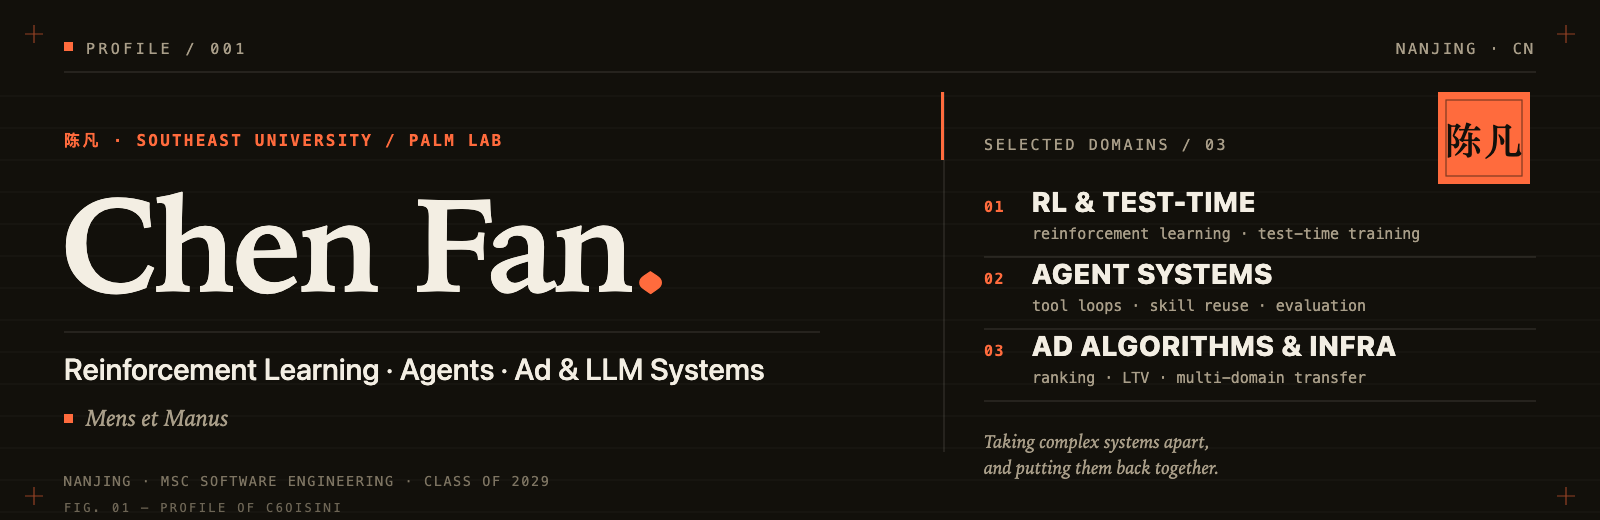
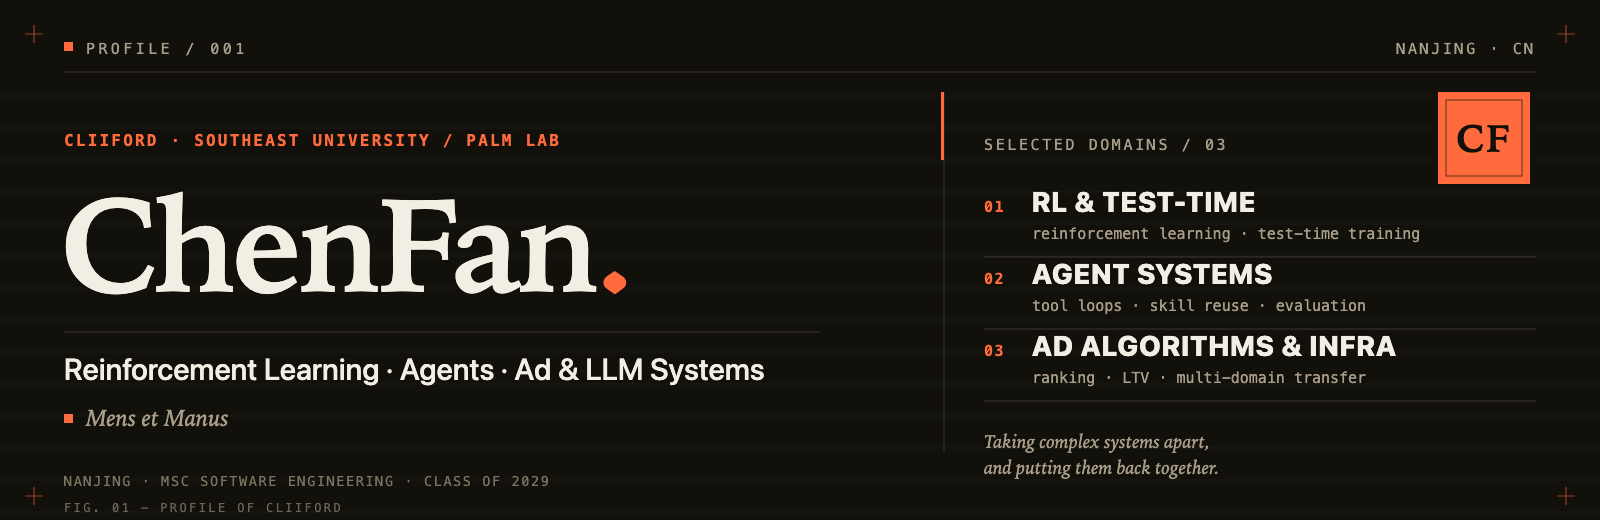
Make the profile English-only and use ChenFan (CliiFord)
Drop the Chinese README section and replace the Chinese name in the hero with ChenFan / CliiFord; regenerate both SVGs and previews.

diff --git a/make_hero.py b/make_hero.py
@@ -1,24 +1,25 @@
 #!/usr/bin/env python3
 """
-生成 README 顶部的 hero 图（亮色 + 暗色各一份）。
+Generate the hero image for the README (light + dark).
 
-风格：编辑排版 / 印刷品 —— 纸面底色、衬线大字、朱红姓名章、细线索引。
-不使用渐变、发光和玻璃卡片，整张图由纯色、细线和小字号等宽字构成。
+Style: editorial print — paper stock, large serif name, vermilion monogram,
+thin index rules. No gradients, glows, or glass cards; flat color, hairlines,
+and small mono type only.
 
-改下面这段变量，然后运行：
+Edit the variables below, then run:
     python3 make_hero.py
 
-输出：
+Outputs:
     assets/hero-light.svg
     assets/hero-dark.svg
 """
 
 from pathlib import Path
 
-# ----------------------------- 只改这里 ---------------------------------
-NAME = "Chen Fan"
-NAME_CN = "陈凡"
-HANDLE = "C6oisini"
+# ----------------------------- edit here ---------------------------------
+NAME = "ChenFan"
+ALIAS = "CliiFord"
+MONOGRAM = "CF"
 LABEL = "PALM LAB"
 SCHOOL = "SOUTHEAST UNIVERSITY"
 TAGLINE = "Reinforcement Learning · Agents · Ad & LLM Systems"
@@ -26,25 +27,25 @@ MOTTO = "Mens et Manus"
 LOCATION = "NANJING · CN"
 CLASS_OF = "2029"
 
-# 右侧索引：编号、标题、一行小注
+# Right-hand index: number, title, one-line note
 DOMAINS = [
     ("01", "RL & TEST-TIME", "reinforcement learning · test-time training"),
     ("02", "AGENT SYSTEMS", "tool loops · skill reuse · evaluation"),
     ("03", "AD ALGORITHMS & INFRA", "ranking · LTV · multi-domain transfer"),
 ]
-# -----------------------------------------------------------------------
+# -------------------------------------------------------------------------
 
 ROOT = Path(__file__).resolve().parent
 ASSETS = ROOT / "assets"
 ASSETS.mkdir(exist_ok=True)
 
 SERIF = (
-    "'Iowan Old Style', 'Palatino Linotype', Palatino, 'Songti SC', "
-    "'Noto Serif SC', Georgia, 'Times New Roman', serif"
+    "'Iowan Old Style', 'Palatino Linotype', Palatino, Georgia, "
+    "'Times New Roman', serif"
 )
 SANS = (
-    "-apple-system, BlinkMacSystemFont, 'Segoe UI', 'PingFang SC', "
-    "'Hiragino Sans GB', 'Microsoft YaHei', 'Noto Sans SC', sans-serif"
+    "-apple-system, BlinkMacSystemFont, 'Segoe UI', Helvetica, Arial, "
+    "sans-serif"
 )
 MONO = (
     "ui-monospace, SFMono-Regular, 'SF Mono', Menlo, Consolas, "
@@ -90,8 +91,9 @@ def esc(text: str) -> str:
 
 def hero(p: dict) -> str:
     name = esc(NAME)
-    name_cn = esc(NAME_CN)
-    handle = esc(HANDLE)
+    alias = esc(ALIAS)
+    alias_upper = esc(ALIAS.upper())
+    monogram = esc(MONOGRAM)
     label = esc(LABEL)
     school = esc(SCHOOL)
     tagline = esc(TAGLINE)
@@ -99,7 +101,7 @@ def hero(p: dict) -> str:
     location = esc(LOCATION)
     class_of = esc(CLASS_OF)
 
-    # 纸面横线：很淡的印刷格线
+    # Paper rules: a very faint print grid
     grid = []
     for y in range(96, 521, 32):
         grid.append(
@@ -107,7 +109,7 @@ def hero(p: dict) -> str:
             f'stroke="{p["ink"]}" stroke-opacity="{p["grid_opacity"]}"/>'
         )
 
-    # 四角裁切标记
+    # Four corner crop marks
     marks = []
     for x, y in ((34, 34), (1566, 34), (34, 496), (1566, 496)):
         marks.append(
@@ -116,7 +118,7 @@ def hero(p: dict) -> str:
             f'stroke-width="1.2"/>'
         )
 
-    # 右侧索引行
+    # Right-hand index rows
     rows = []
     y = 212
     for num, title, note in DOMAINS:
@@ -142,14 +144,14 @@ def hero(p: dict) -> str:
 
     return f'''<svg xmlns="http://www.w3.org/2000/svg" width="1600" height="520"
      viewBox="0 0 1600 520" fill="none" role="img"
-     aria-label="{name_cn} {name} — {tagline}">
-  <title>{name_cn} {name} — {tagline}</title>
+     aria-label="{name} ({alias}) — {tagline}">
+  <title>{name} ({alias}) — {tagline}</title>
 
-  <!-- 纸面 -->
+  <!-- paper -->
   <rect width="1600" height="520" fill="{p["paper"]}"/>
   {''.join(grid)}
 
-  <!-- 页眉 -->
+  <!-- header -->
   <rect x="64" y="42" width="9" height="9" fill="{p["accent"]}"/>
   <text x="86" y="54" font-family="{MONO}" font-size="15" letter-spacing="3.4"
         fill="{p["muted"]}">PROFILE / 001</text>
@@ -158,9 +160,9 @@ def hero(p: dict) -> str:
   <line x1="64" y1="72" x2="1536" y2="72"
         stroke="{p["ink"]}" stroke-opacity="{p["rule_opacity"]}"/>
 
-  <!-- 左侧：名字 -->
+  <!-- left: name -->
   <text x="64" y="146" font-family="{MONO}" font-size="16" font-weight="600"
-        letter-spacing="2.2" fill="{p["accent"]}">{name_cn} · {school} / {label}</text>
+        letter-spacing="2.2" fill="{p["accent"]}">{alias_upper} · {school} / {label}</text>
   <text x="61" y="292" font-family="{SERIF}" font-size="132" font-weight="700"
         letter-spacing="-3.5" fill="{p["ink"]}">{name}<tspan fill="{p["accent"]}">.</tspan></text>
   <line x1="64" y1="332" x2="820" y2="332"
@@ -174,13 +176,13 @@ def hero(p: dict) -> str:
   <text x="64" y="486" font-family="{MONO}" font-size="13.5" letter-spacing="1.6"
         fill="{p["faint"]}">NANJING · MSC SOFTWARE ENGINEERING · CLASS OF {class_of}</text>
 
-  <!-- 中间竖线 -->
+  <!-- center rule -->
   <line x1="944" y1="92" x2="944" y2="452"
         stroke="{p["ink"]}" stroke-opacity="{p["rule_opacity"]}"/>
   <line x1="942.5" y1="92" x2="942.5" y2="160"
         stroke="{p["accent"]}" stroke-width="3"/>
 
-  <!-- 右侧：索引 -->
+  <!-- right: index -->
   <text x="984" y="150" font-family="{MONO}" font-size="15" letter-spacing="2.6"
         fill="{p["muted"]}">SELECTED DOMAINS / 03</text>
   {''.join(rows)}
@@ -190,22 +192,22 @@ def hero(p: dict) -> str:
   <text x="984" y="474" font-family="{SERIF}" font-size="19" font-style="italic"
         fill="{p["muted"]}">and putting them back together.</text>
 
-  <!-- 姓名章 -->
+  <!-- monogram seal -->
   <g>
     <rect x="1438" y="92" width="92" height="92" fill="{p["accent"]}"/>
     <rect x="1446" y="100" width="76" height="76" fill="none"
           stroke="{p["accent_ink"]}" stroke-opacity="0.55" stroke-width="1.2"/>
     <text x="1484" y="152" text-anchor="middle" font-family="{SERIF}"
           font-size="38" font-weight="700" letter-spacing="2"
-          fill="{p["accent_ink"]}">{name_cn}</text>
+          fill="{p["accent_ink"]}">{monogram}</text>
   </g>
 
-  <!-- 裁切标记 -->
+  <!-- crop marks -->
   {''.join(marks)}
 
-  <!-- 页脚 -->
+  <!-- footer -->
   <text x="64" y="512" font-family="{MONO}" font-size="12" letter-spacing="2.4"
-        fill="{p["faint"]}" opacity="0.85">FIG. 01 — PROFILE OF {handle.upper()}</text>
+        fill="{p["faint"]}" opacity="0.85">FIG. 01 — PROFILE OF {alias_upper}</text>
 </svg>
 '''
 

diff --git a/README.md b/README.md
@@ -1,8 +1,8 @@
 <p align="center">
   <picture>
-    <source media="(prefers-color-scheme: dark)" srcset="./assets/hero-dark.svg?v=2">
-    <source media="(prefers-color-scheme: light)" srcset="./assets/hero-light.svg?v=2">
-    <img src="./assets/hero-light.svg?v=2" alt="Chen Fan — Reinforcement Learning, Agents, Ad &amp; LLM Systems" width="100%">
+    <source media="(prefers-color-scheme: dark)" srcset="./assets/hero-dark.svg?v=3">
+    <source media="(prefers-color-scheme: light)" srcset="./assets/hero-light.svg?v=3">
+    <img src="./assets/hero-light.svg?v=3" alt="ChenFan (CliiFord) — Reinforcement Learning, Agents, Ad &amp; LLM Systems" width="100%">
   </picture>
 </p>
 
@@ -20,45 +20,21 @@
   <code>Reinforcement Learning</code>&nbsp; <code>Agent Systems</code>&nbsp; <code>Ad Algorithms &amp; Infra</code>
 </p>
 
-<p align="center">
-  <a href="#中文">中文</a> · <a href="#english">English</a>
-</p>
-
 ---
 
-## 中文
+## Hello, world
 
-### 你好，世界
-
-我是**陈凡**（Chen Fan），东南大学软件工程硕士在读，在 **PALM 实验室**做 Reinforcement Learning 与 Agent 方向的研究。
+I'm **ChenFan (CliiFord)**, a master's student in software engineering at **Southeast University**, working on reinforcement learning and agent systems in the **PALM Lab**.
 
 > Mens et Manus.
 
-### 我在做什么
-
-- **研究**：视觉语言模型 · Agent 系统 · Reinforcement Learning · Test-Time Training
-- **工程**：广告算法模型与基础设施 · Agent 工具循环
-- **经历**：字节跳动 Pangle 算法实习（2026.03–2026.09）
-
-### 找到我
-
-[Email](mailto:C6oisini@gmail.com) · [GitHub](https://github.com/C6oisini)
-
-## English
-
-### Hello, world
-
-I'm **Fan Chen** (陈凡), a master's student in software engineering at **Southeast University**, working on reinforcement learning and agent systems in the **PALM Lab**.
-
-> Mens et Manus.
-
-### What I work on
+## What I work on
 
 - **Research** — vision-language models, agent systems, reinforcement learning, test-time training
 - **Engineering** — ad algorithm modeling and infrastructure, agent tool loops
 - **Previously** — algorithm intern at ByteDance Pangle (2026.03–2026.09)
 
-### Find me
+## Find me
 
 [Email](mailto:C6oisini@gmail.com) · [GitHub](https://github.com/C6oisini)
 
